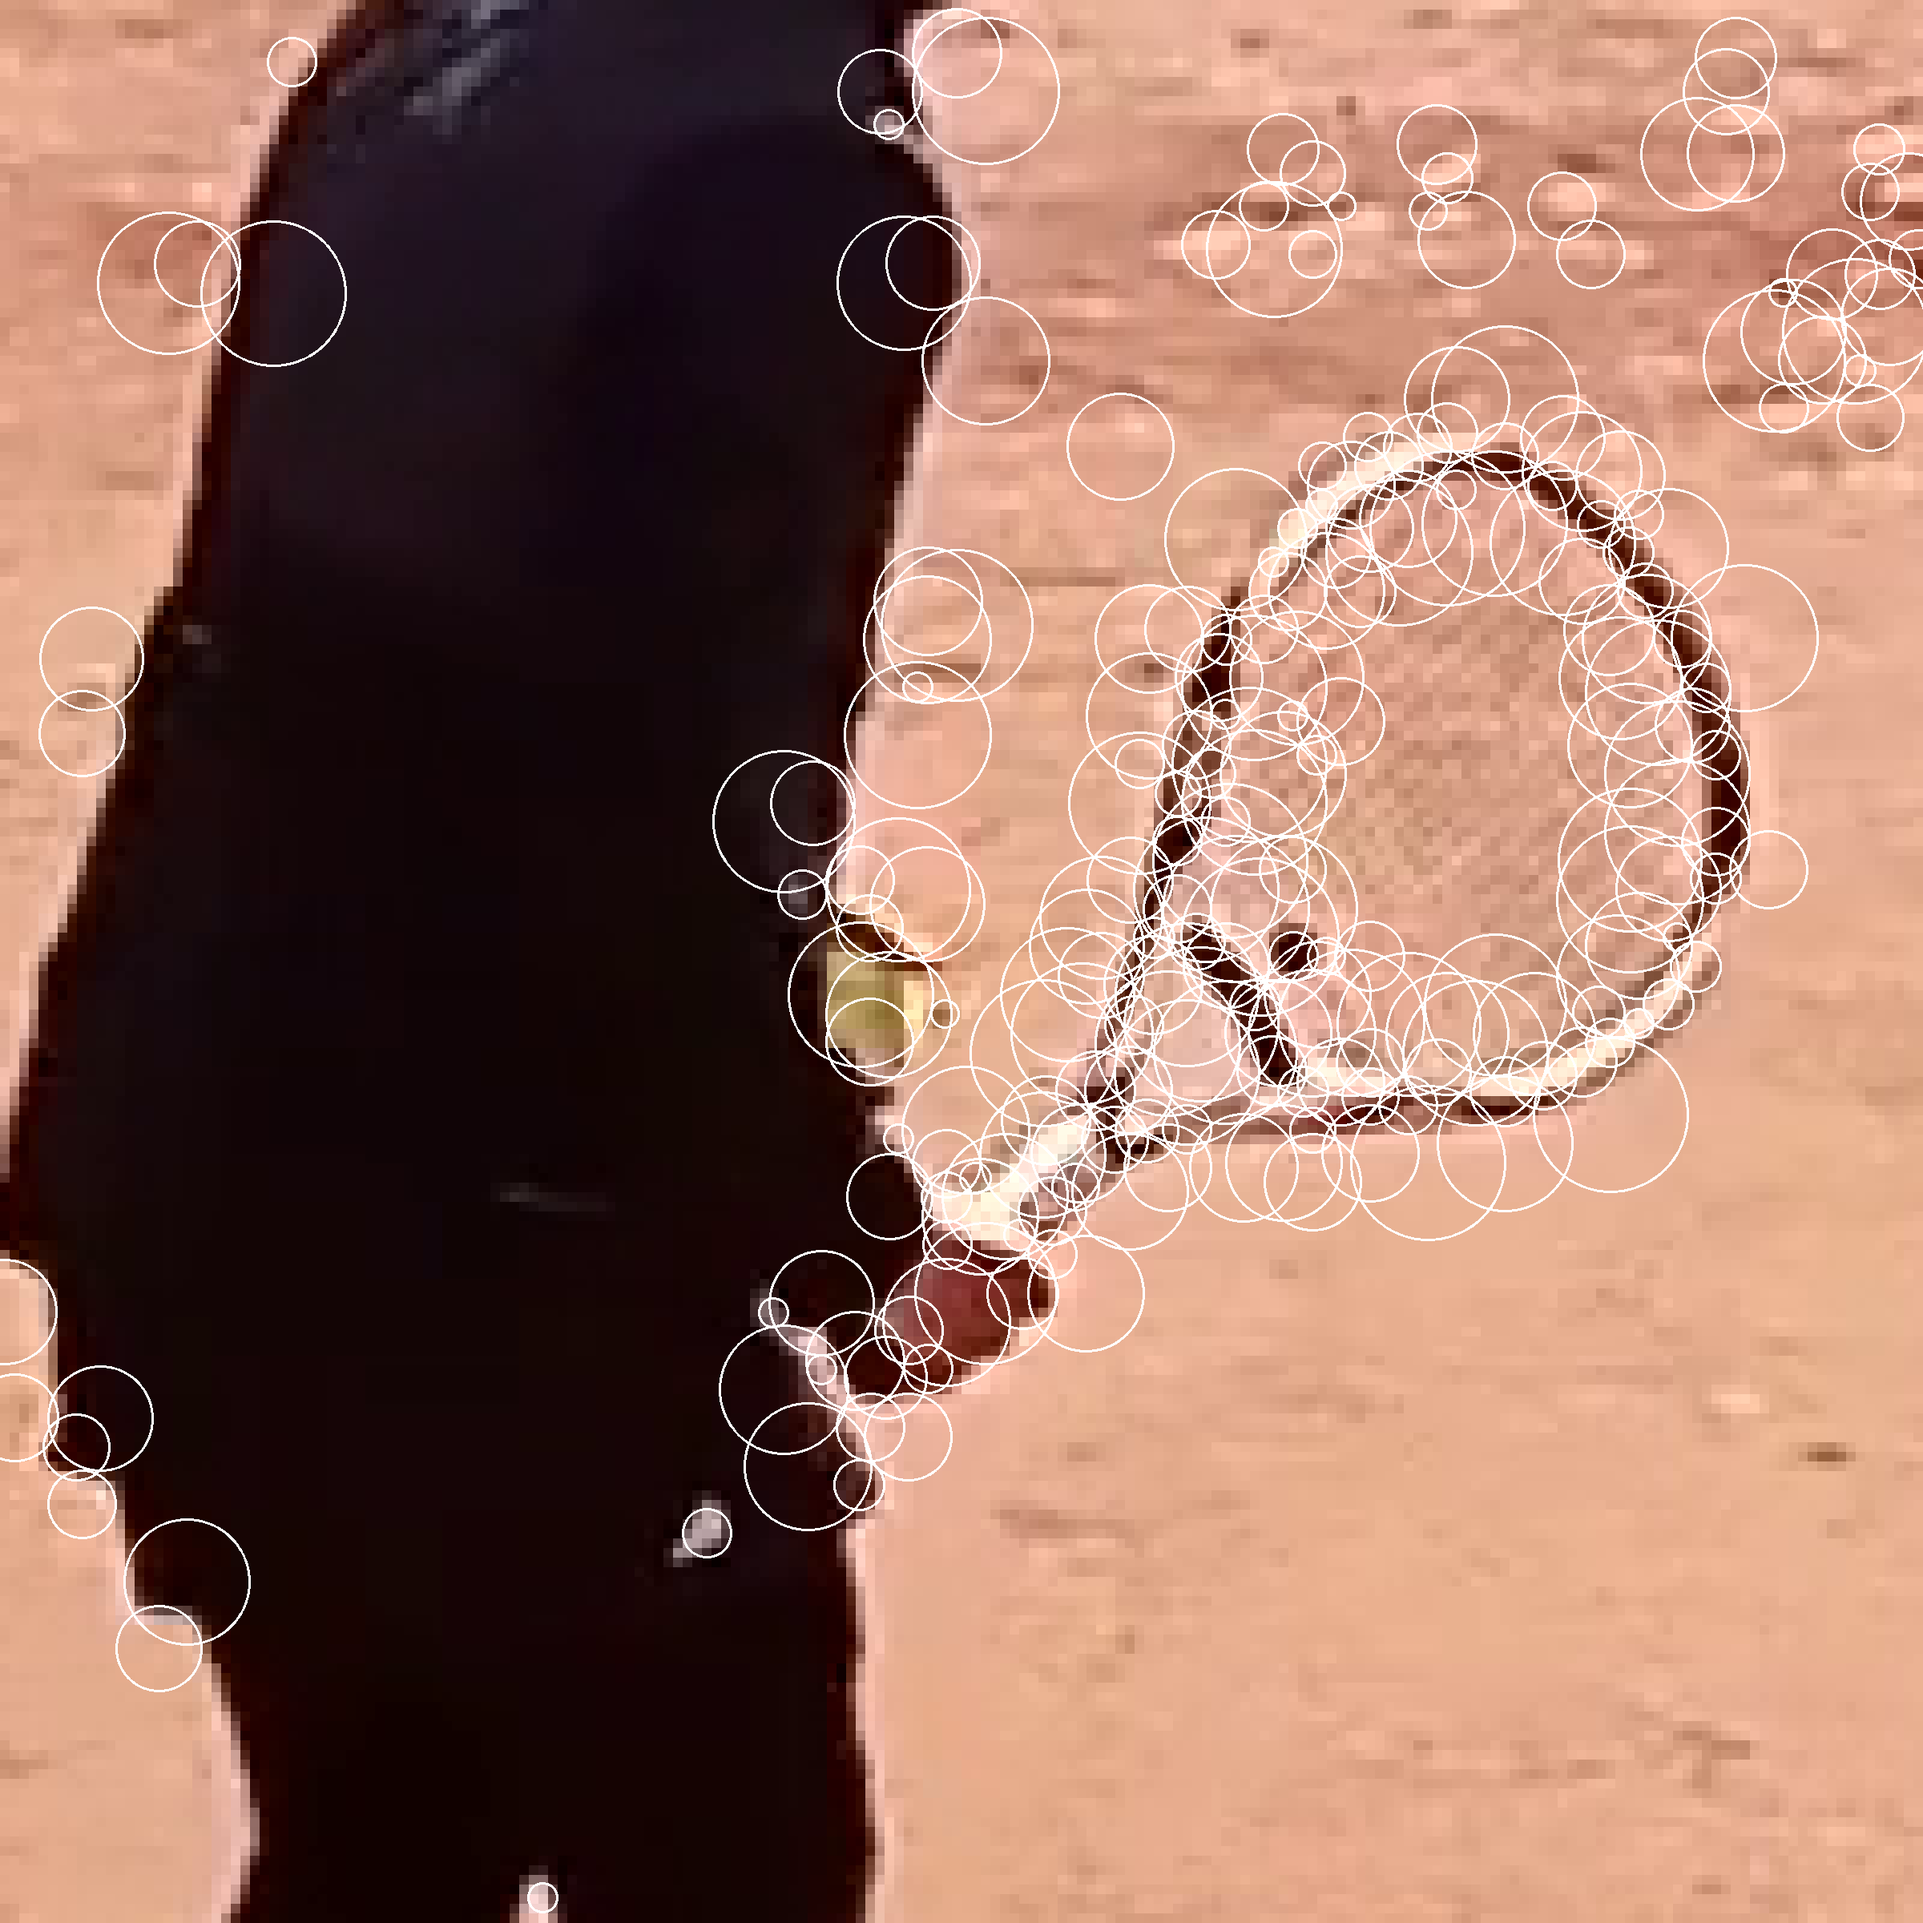
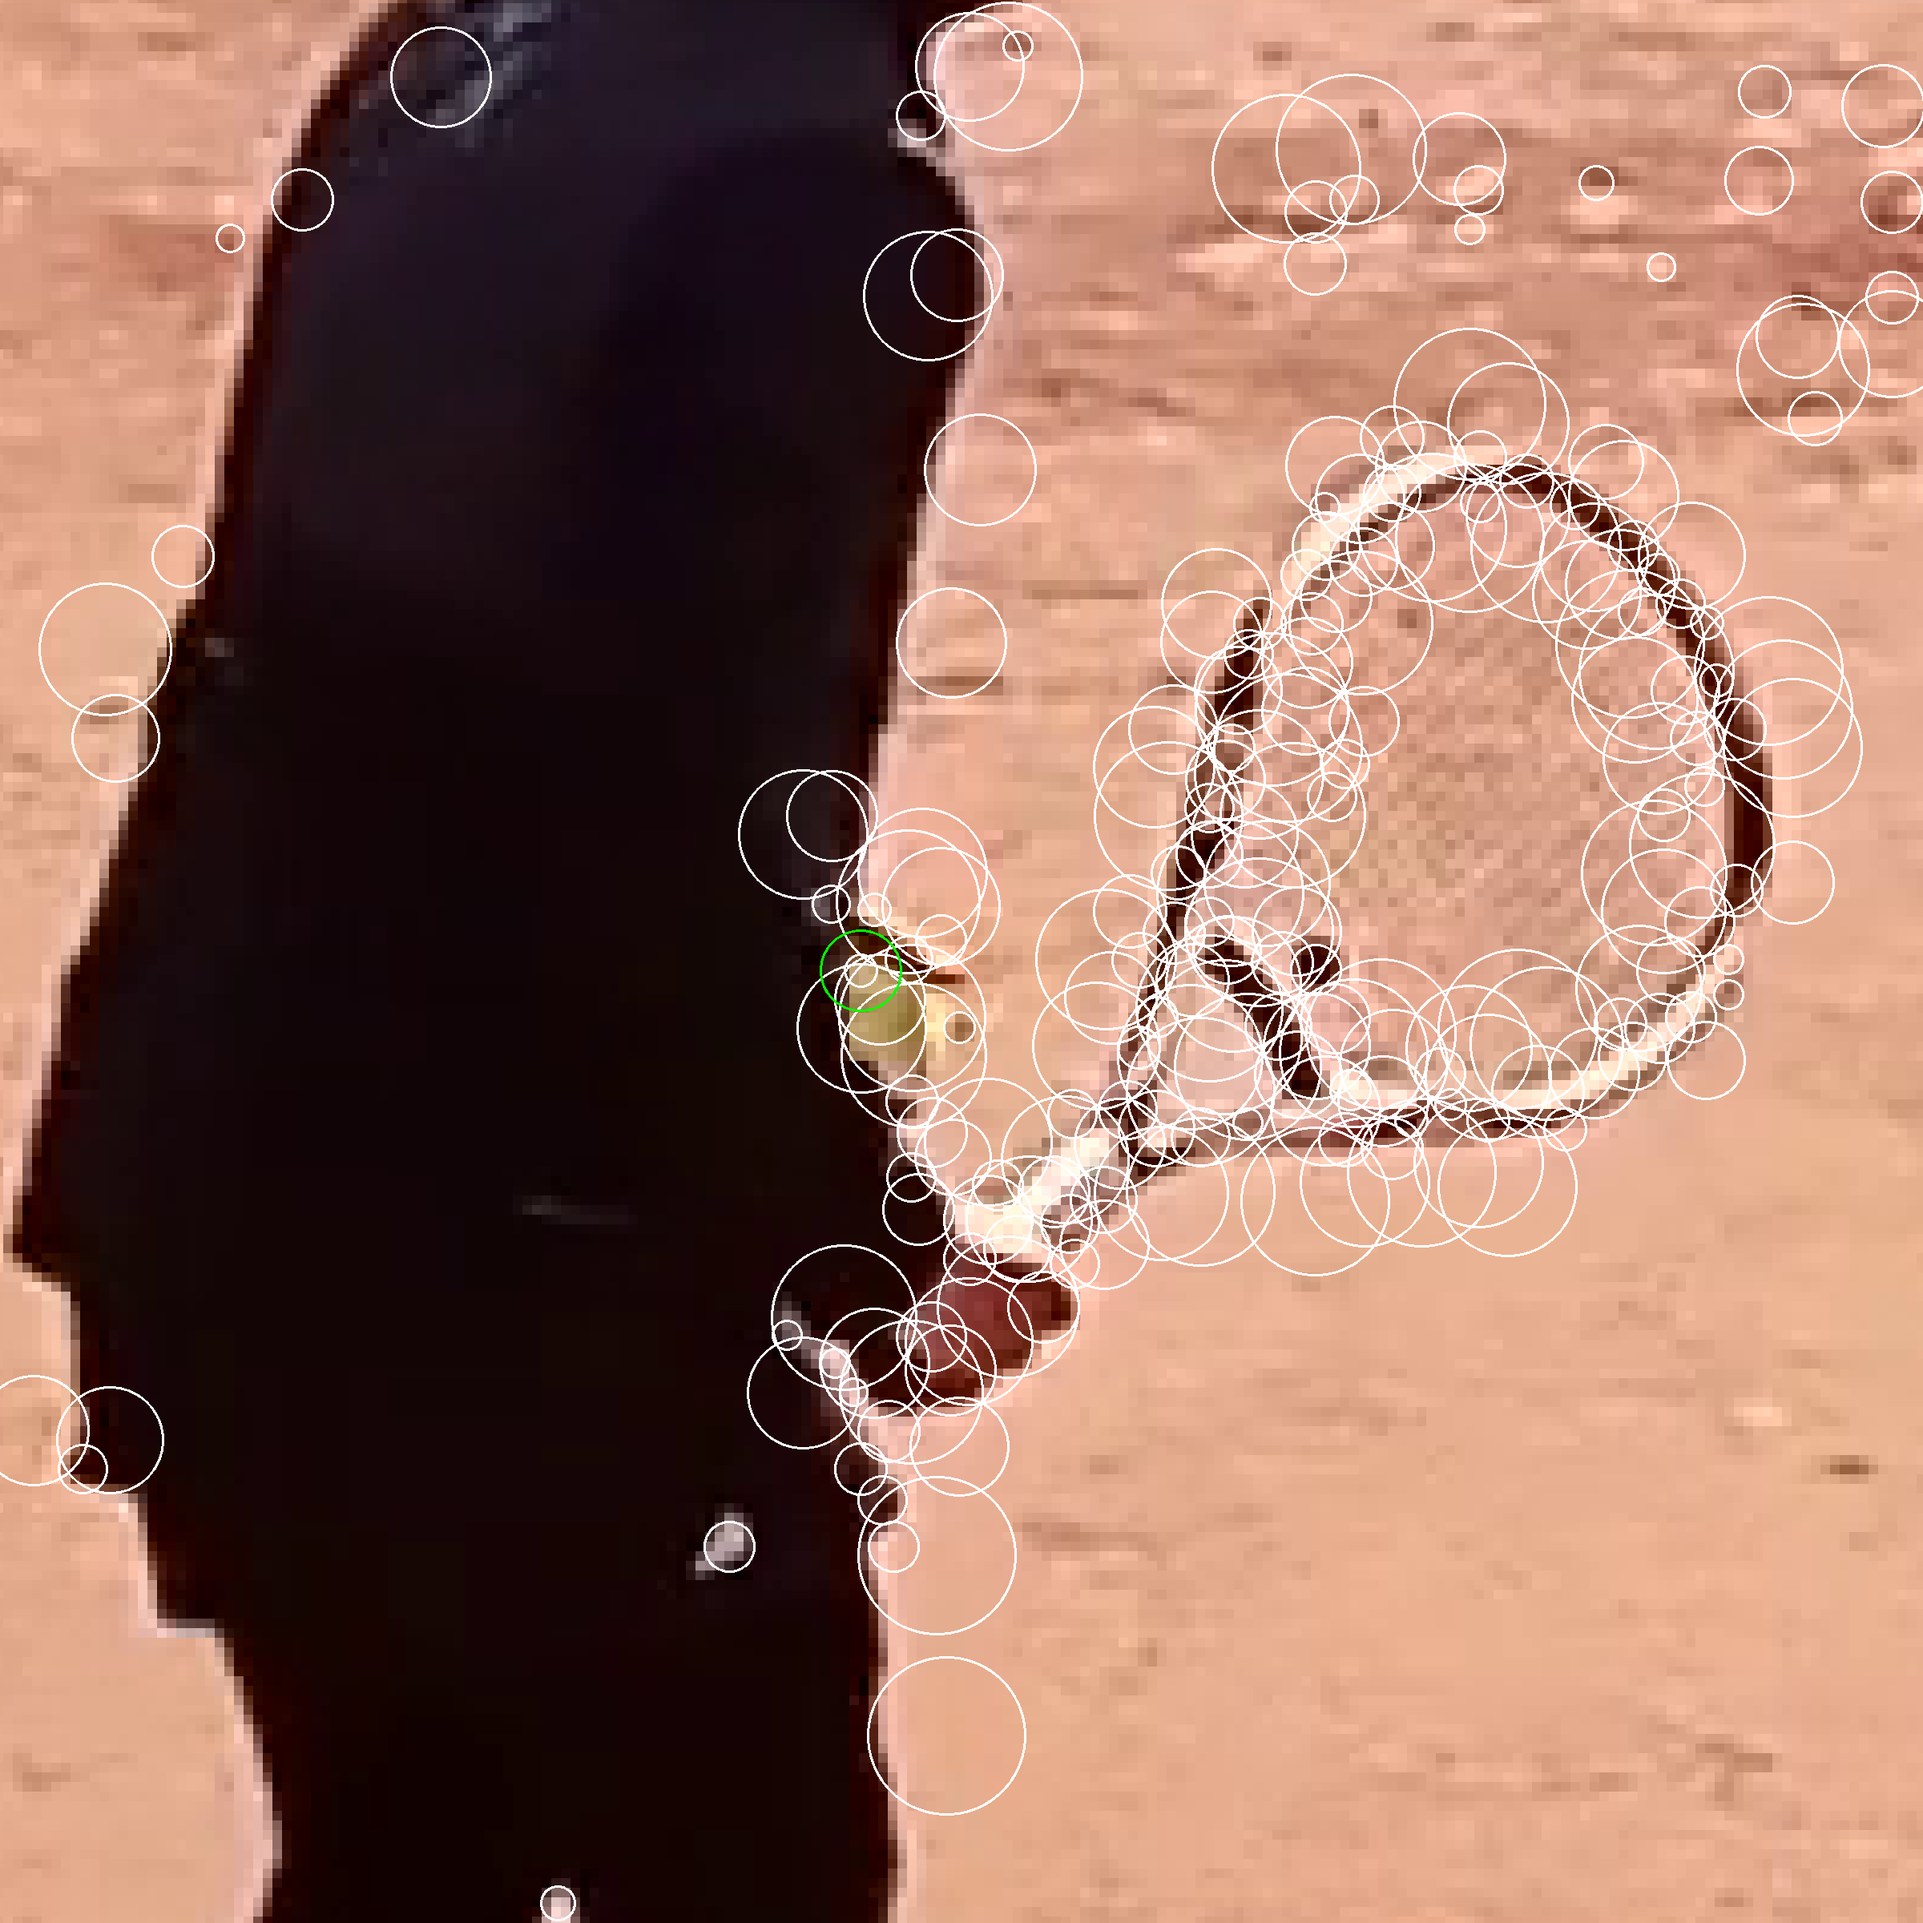
Continued

diff --git a/AI/ball_tracking3.py b/AI/ball_tracking3.py
@@ -976,18 +976,18 @@ def deteccionPorCirculos(preCentro, frame, recorteCerca, correccion, color_pre_c
     #if numeroFrame == 51 or correccion: print("Circles: ", circles)
 
     #if correccion: return circles, (x1, y1)
-    #if correccion:
+    if correccion:
         # Supongamos que quieres eliminar algunos círculos, aquí hay un ejemplo de condición
         #condicion = (circles[:,:,2] - preCentro[1] * 3) > 15  # Condición de ejemplo
         # Aplica la condición para filtrar círculos
         #circles_filtrados = circles[~condicion]
         #for circle in circles[0]:
         #    if abs(circle[2] - preCentro[1] * 3) > 15:
-        #contadorCorreccion += 1
+        contadorCorreccion += 1
         #if contadorCorreccion == 6: contadorCorreccion = 1
-        #for i in circles[0]:
-        #    cv2.circle(imagen_recortada, (int(i[0]), int(i[1])), int(i[2]), (255, 255, 255), thickness = 2)
-        #    cv2.imwrite("imagen_recortada" + str(contadorCorreccion) + ".png", imagen_recortada)
+        for i in circles[0]:
+            cv2.circle(imagen_recortada, (int(i[0]), int(i[1])), int(i[2]), (255, 255, 255), thickness = 2)
+        #cv2.imwrite("imagen_recortada" + str(contadorCorreccion) + ".png", imagen_recortada)
         #cv2.imwrite("imagen_recortada" + str(contadorCorreccion) + ".png", imagen_recortada)
         #cv2.imwrite("Frame" + str(contadorCorreccion) + ".png", frame)
         #return circles
@@ -1169,7 +1169,9 @@ def deteccionPorCirculos(preCentro, frame, recorteCerca, correccion, color_pre_c
             cv2.circle(frame, (xr, yr), rr, (255, 255, 0), thickness = 2)
 
             centro = ((xr, yr), rr)
-            if correccion: return centro, similitudes_coseno[indice_similitud_mas_alta], promedios_colores[indice_similitud_mas_alta]
+            if correccion:
+                cv2.imwrite("imagen_recortada" + str(contadorCorreccion) + ".png", imagen_recortada) 
+                return centro, similitudes_coseno[indice_similitud_mas_alta], promedios_colores[indice_similitud_mas_alta]
             centroConDecimales = ((x1 + circuloDetectado[0] / resizer, y1 + circuloDetectado[1] / resizer), circuloDetectado[2] / resizer)
             ultimosCentrosCirculo.appendleft(centroConDecimales)
             radioDeteccionPorCirculo = circuloDetectado[2] / resizer
@@ -1204,7 +1206,7 @@ def deteccionPorCirculos(preCentro, frame, recorteCerca, correccion, color_pre_c
     cv2.imshow("Imagen recortada", imagen_recortada)
     cv2.imshow("Imagen recortada copia", imagen_recortada_copia)
         
-    a = True
+    a = False
     
     if a:
         pausado = True
@@ -1535,12 +1537,13 @@ def cambiosDeDireccion(ultCentros, correccion):
             verdeCerca = None
             if i[1] == True: circulosCorreccion.append((i[0], None))
             else:
-                if len(circulosCorreccion) == 0: preCentroCorreccion = i[4]
-                else: preCentroCorreccion = circulosCorreccion[-1][0]
+                if len(circulosCorreccion) == 0 and i[4] is not None: preCentroCorreccion = i[4]
+                elif len(circulosCorreccion) != 0: preCentroCorreccion = circulosCorreccion[-1][0]
+                else: continue
                 if deteccionColorUltimosFrames[contador] is not None: verdeCerca = tp_fix(deteccionColorUltimosFrames[contador], preCentroCorreccion, 0.2, False, None, (1,0), False, True)
                 if verdeCerca is None:
                     if color_preCentro is None: color_preCentro = i[3]
-                    correccionCirculos, coseno, casi_color_preCentro = deteccionPorCirculos(i[4], i[2], 300, True, color_preCentro, 4)
+                    correccionCirculos, coseno, casi_color_preCentro = deteccionPorCirculos(preCentroCorreccion, i[2], 300, True, color_preCentro, 4)
                     if coseno > ultimosSimilitudesCoseno[contador]:
                         #print("AAAAAAAAAAAAAAAAAAA")
                         circulosCorreccion.append((correccionCirculos, None))
